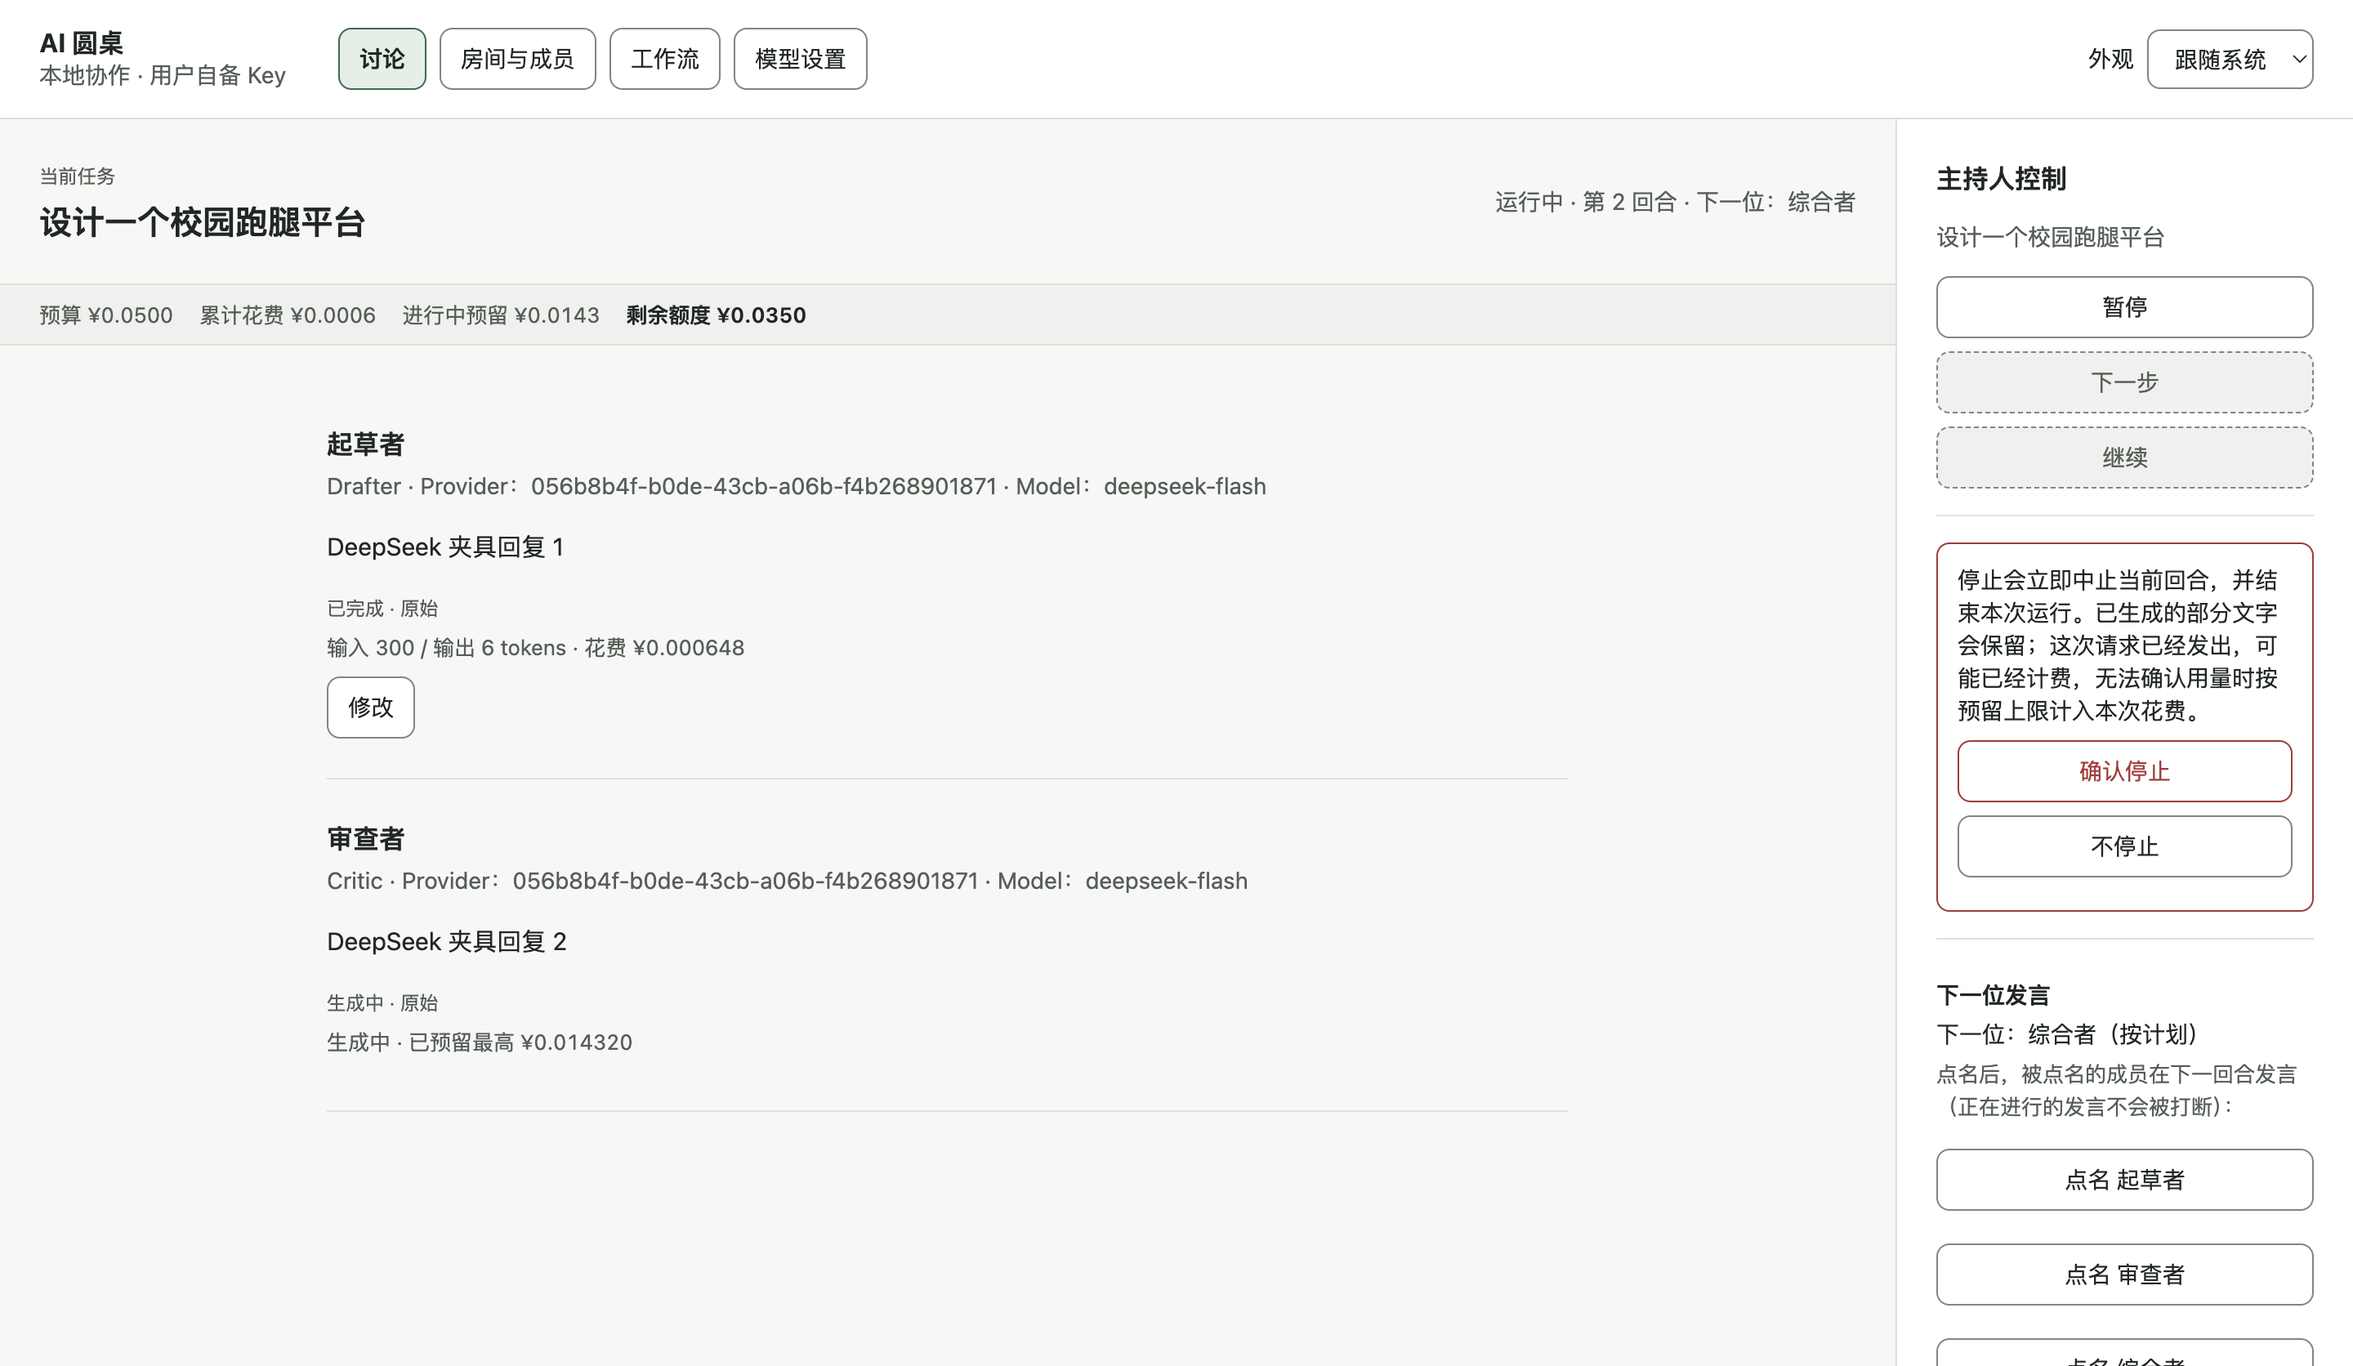
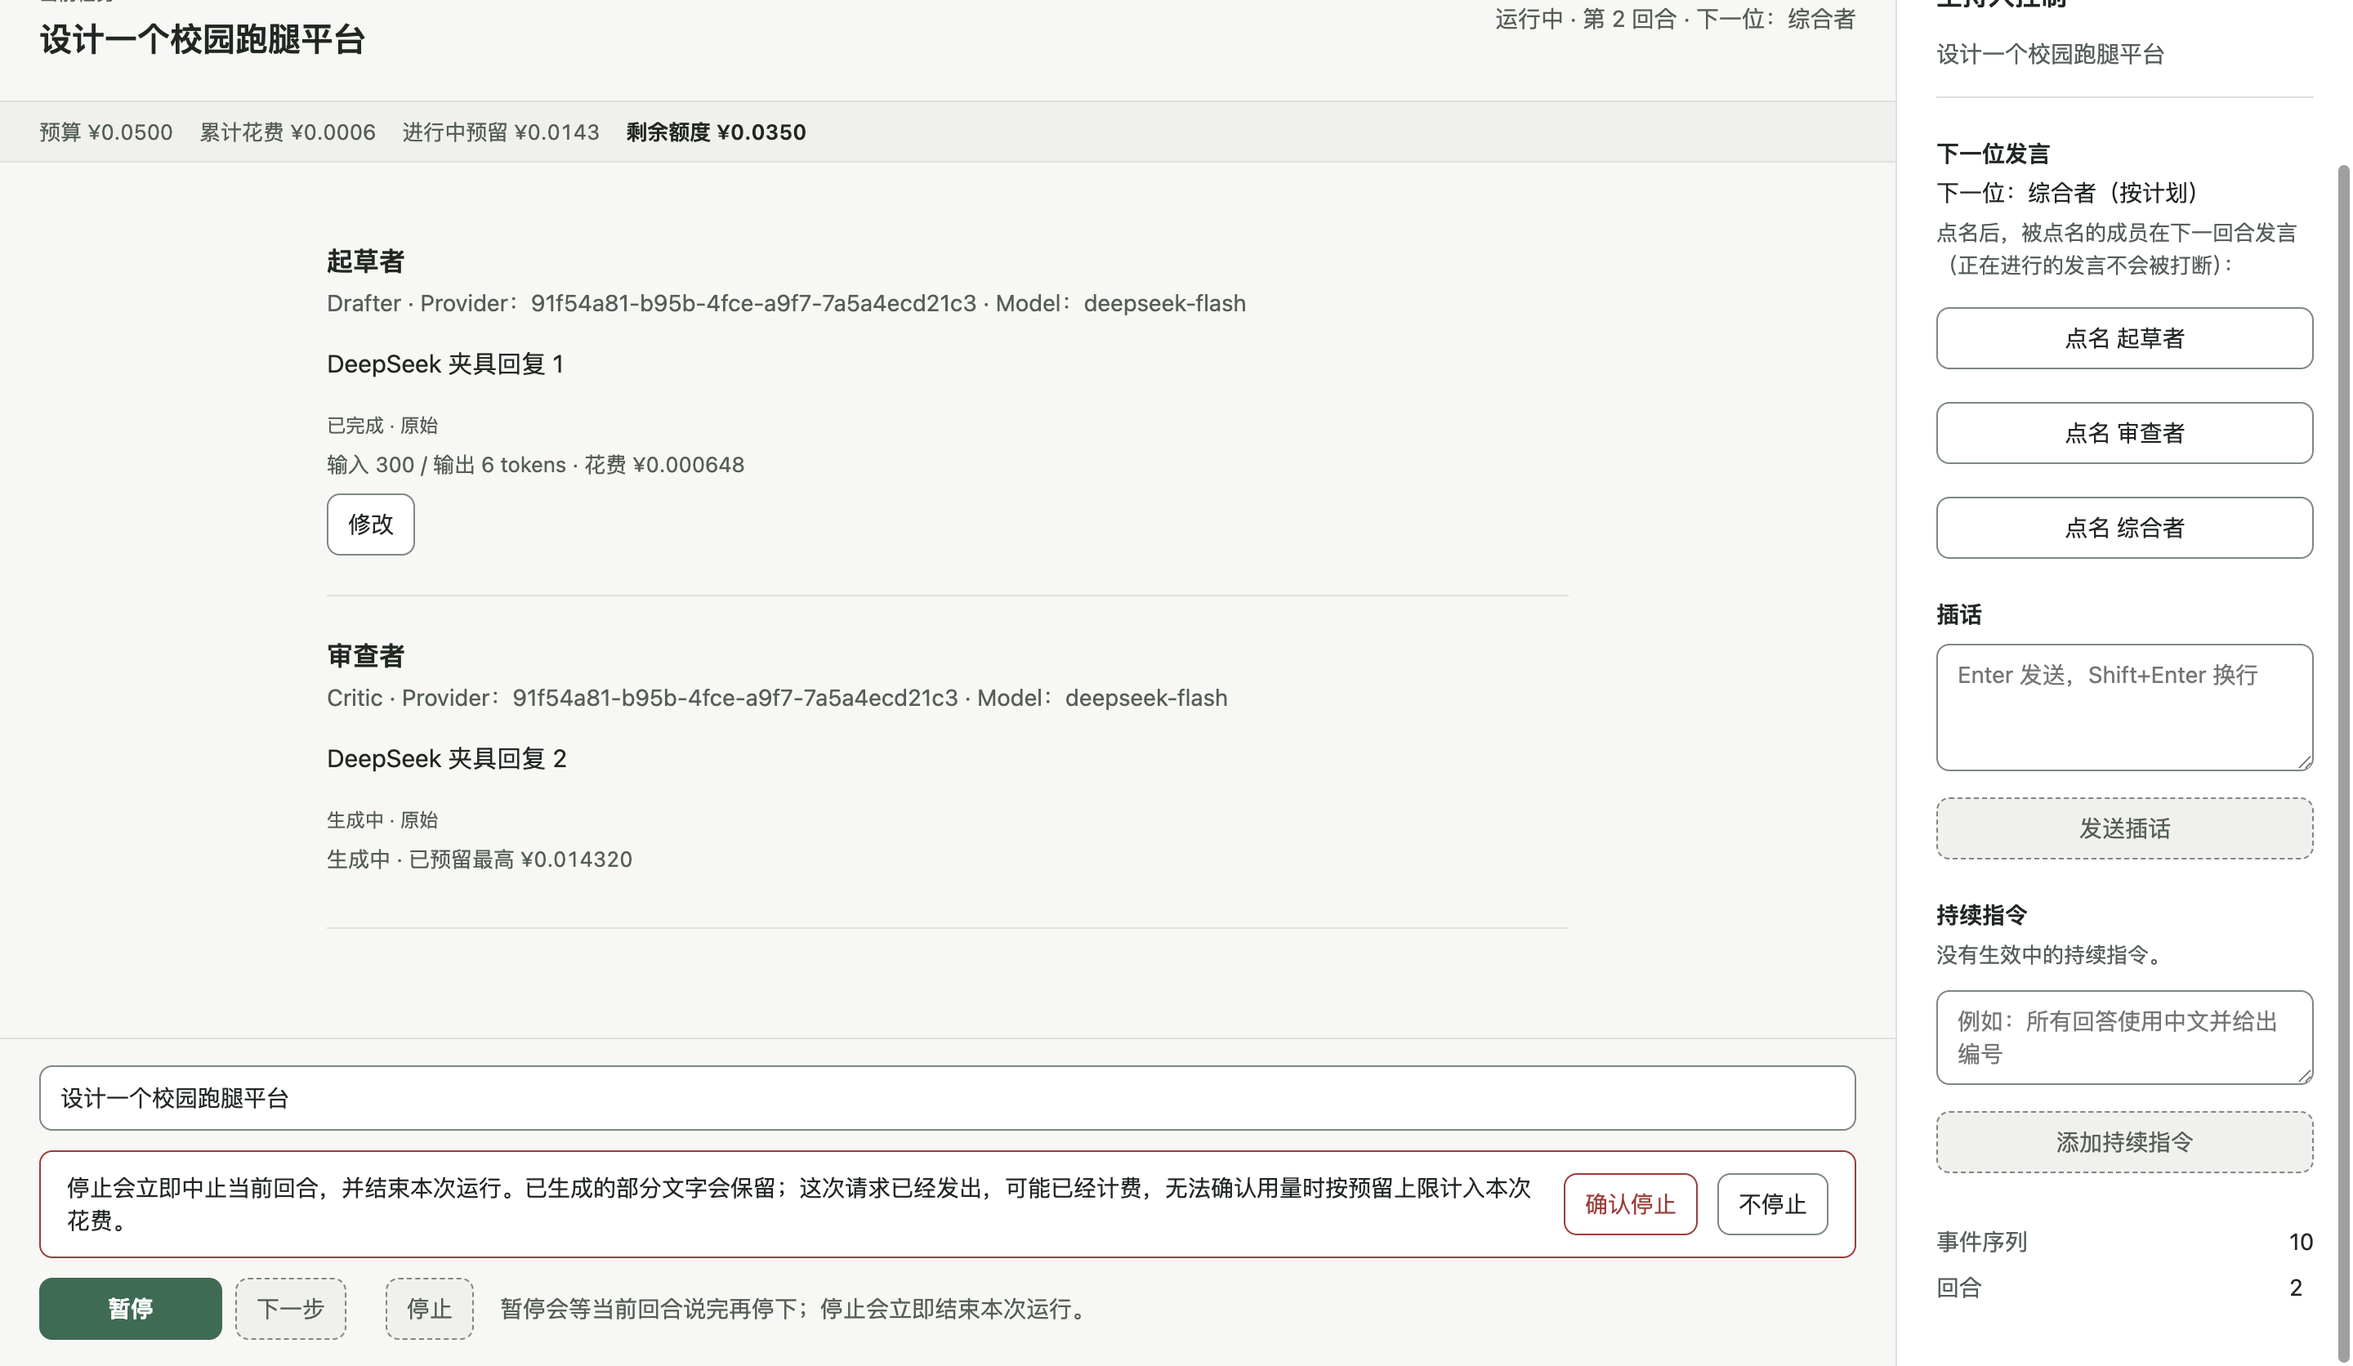
test: hands-on pause in place and step-by-step acceptance; D098 rework and D099
Acceptance now clicks Pause at the unmoved start coordinate and walks
step mode with an interjection (44 checks, 11 screenshots). R09 probe
asserts the D095 format; R07/R08 probe reaches the composer controls.
R01, R07/R08 and R09 probes fail identically on the b3e3324 baseline.

diff --git a/docs/verification/2026-10-23-premerge-quality.md b/docs/verification/2026-10-23-premerge-quality.md
@@ -1,15 +1,16 @@
 # 合并前质量修复：验收记录（2026-10-23）
 
-分支 `codex/r13a-premerge-quality`，基线 `codex/r13a-real-model-enable`（`b3e3324`，含 R10–R12 与 R13A）。所有检查都在本机执行，**没有发出任何真实 DeepSeek 请求**，也没有读取真实用户目录 `~/Library/Application Support/ai-roundtable`、`…/ai-roundtable-trial` 或真实 Key：测试用假 Key，探针把 `https://api.deepseek.com` 的传输重定向到本机回环夹具，其他出站全部拦截并断言为零。决策见 [DECISIONS](../DECISIONS.md) D095–D098，契约见 [CONTRACTS](../CONTRACTS.md) 同名一节，发给模型的消息对比见 [premerge-quality-context-comparison.md](premerge-quality-context-comparison.md)。
+分支 `codex/r13a-premerge-quality`，基线 `codex/r13a-real-model-enable`（`b3e3324`，含 R10–R12 与 R13A）。所有检查都在本机执行，**没有发出任何真实 DeepSeek 请求**，也没有读取真实用户目录 `~/Library/Application Support/ai-roundtable`、`…/ai-roundtable-trial` 或真实 Key：测试用假 Key，探针把 `https://api.deepseek.com` 的传输重定向到本机回环夹具，其他出站全部拦截并断言为零。决策见 [DECISIONS](../DECISIONS.md) D095–D099，契约见 [CONTRACTS](../CONTRACTS.md) 同名一节，发给模型的消息对比见 [premerge-quality-context-comparison.md](premerge-quality-context-comparison.md)。
 
 ## 三层验收
 
 | 层 | 内容 | 结果 |
 | --- | --- | --- |
-| 自动化测试 | `pnpm run typecheck`；`pnpm test`（Electron 38.8.6 自带 Node，ABI 139）；`pnpm run build` | 通过：typecheck exit 0；126 个文件 / 1883 个测试全部通过（基线 120 / 1820）；build exit 0 |
+| 自动化测试 | `pnpm run typecheck`；`pnpm test`（Electron 38.8.6 自带 Node，ABI 139）；`pnpm run build` | 通过：typecheck exit 0；126 个文件 / 1885 个测试全部通过（基线 120 / 1820）；build exit 0 |
 | 隔离生产探针 | `r10-r11-electron.cjs`；`r12-electron.cjs` 首次 + `--restart`；`r13a-electron.cjs` 首次 + `--restart` | 通过：R10/R11 53 项断言、26 次夹具请求（该探针没有重启模式）；R12 首次 22 项 / 4 次请求，重启 14 项 / **0 次请求**；R13A 首次 13 项 / 4 次请求，重启 12 项 / **0 次请求** |
-| 真实界面实操 | `premerge-quality-acceptance.cjs`：真实鼠标/键盘事件（DevTools Input 域），中文经输入法组合输入，8 张截图 | 通过：35 项检查、2 次夹具请求，无控制台错误、无网络外联 |
-| 回归实操探针 | `r13a-acceptance.cjs`；`r12-acceptance.cjs`（已改为"停止 → 确认停止"） | R13A 通过（21 项）。R12：本分支共运行 4 次，3 次通过（22 项）、1 次在输入法组合步骤失败（拼音未被替换为汉字；该步骤固定等待 120ms，插话输入框代码本分支未改），判定为探针时序不稳定，列为遗留问题。两者重新生成的截图已还原，不覆盖原有证据 |
+| 真实界面实操 | `premerge-quality-acceptance.cjs`：真实鼠标/键盘事件（DevTools Input 域），中文经输入法组合输入，11 张截图 | 通过：44 项检查、4 次夹具请求，无控制台错误、无网络外联 |
+| 回归实操探针 | `r13a-acceptance.cjs`；`r12-acceptance.cjs`（已改为"停止 → 确认停止"）；`r10-r11-electron.cjs` 内含的 R10/R11 UI 流程 | 最终一轮全部通过（R13A 21 项、R12 22 项）。R12 在本分支共运行 5 次，1 次在输入法组合步骤失败（拼音未被替换为汉字；该步骤固定等待 120ms，插话代码本分支未改），判定为探针时序不稳定，列为遗留问题。重新生成的 R12/R13A 截图已还原，不覆盖原有证据 |
+| 旧探针（既有失败） | `r01-electron.cjs`、`r07r08-electron.cjs`、`r09-electron.cjs` | **未通过，且与本分支无关**：把基线 `b3e3324` 导出到临时目录单独构建后运行，三者以相同原因失败——R01、R07/R08 断言 Bridge 只有 room/rooms/run/settings 四组（R12 新增了 host），R09 在停止阶段比对"页面文字 = 快照全部消息"（R12 起页面每个槽只显示有效版本）。本分支只同步了 R09 中发给模型的消息断言（D095）和 R07/R08 中控制按钮的位置（D098） |
 | 真实模型实测 | 用户自己的 DeepSeek Key 复测讨论质量与账单 | **未验证，待总控和用户一起做** |
 
 ## 实操截图（`premerge-quality-screens/`）
@@ -21,9 +22,12 @@
 | [03-key-saved-last-step.png](premerge-quality-screens/03-key-saved-last-step.png) | 一键后输入框可用并获得焦点（"我已核对请求目标"同时勾选）；键入假 Key 按 Enter 保存，显示"已配置；系统安全存储。"，Key 不回显。Key 下方只有一个下一步："最后一步：确认本次会话的请求目标 …"与"目标无误，确认本次会话"。 |
 | [04-session-confirmed.png](premerge-quality-screens/04-session-confirmed.png) | 确认后，编辑页顶部"接入进度"三项完成，写明"已就绪：房间成员可以向此 Provider 发送真实请求（仍受模型审核和运行预算限制）"。 |
 | [05-members.png](premerge-quality-screens/05-members.png) | 新建房间"校园跑腿讨论"，添加起草者（Drafter）、审查者（Critic）、综合者（Synthesizer），Provider 均为"DeepSeek 直连"，Model 自动带出 deepseek-flash。 |
-| [06-pause-pressed.png](premerge-quality-screens/06-pause-pressed.png) | 第一位成员还在输出时点"暂停"：页头"正在暂停"。暂停 / 下一步 / 继续为一组；"停止"在分隔线下单独一行、红色描边，下附"暂停：等当前回合说完再停下，可以继续。停止：立即结束本次运行。" |
-| [07-stop-confirm.png](premerge-quality-screens/07-stop-confirm.png) | 继续后审查者输出中点"停止"：就地出现确认，说明部分文字会保留、请求已发出可能已计费、无法确认用量时按预留上限计入；运行仍是"运行中"。 |
-| [08-stopped.png](premerge-quality-screens/08-stopped.png) | 先点"不停止"运行继续；再"停止 → 确认停止"：页头"已停止"，审查者的部分文字保留并标"已中止"，费用按未知（预留上限）计入、不记 0；"重试当前回合""续写部分回复"下方提示"重试和续写会重新发送请求，可能再次计费。" |
+| [06-pause-in-place.png](premerge-quality-screens/06-pause-in-place.png) | 点"开始协作"后鼠标不动，第一位成员输出时在同一坐标再点一下：那里已原地变成"暂停"，页头"正在暂停"，当前回合继续说完。控制条依次是 暂停、下一步、停止，停止在末尾、隔开、红色描边；右侧主持人面板不再有第二套运行按钮。输入区固定在窗口底部，输出变长也不会把按钮推走。 |
+| [07-stop-confirm.png](premerge-quality-screens/07-stop-confirm.png) | "继续"同样在原位置；审查者输出中点"停止"：控制条上方出现轻量确认（部分文字保留、请求已发出可能已计费、无法确认用量时按预留上限计入），焦点在"不停止"；"暂停"仍在原处可用，运行仍是"运行中"。 |
+| [08-stopped.png](premerge-quality-screens/08-stopped.png) | 先"不停止"，再"停止 → 确认停止"：页头"已停止"，审查者的部分文字保留并标"已中止"，费用按未知（预留上限）计入、不记 0；输入区原位置变回"开始协作"；右侧重试/续写下方提示"会重新发送请求，可能再次计费"。 |
+| [09-step-option.png](premerge-quality-screens/09-step-option.png) | 开始前在输入区勾选"每个回合结束后暂停，方便插话或点名"（默认不勾选，勾选后记住），任务用输入法改为"讨论跑腿平台的定价"。 |
+| [10-step-paused-interject.png](premerge-quality-screens/10-step-paused-interject.png) | 开始后起草者说完即自动暂停（页头"已暂停"），没有和模型抢时间；在右侧"插话"用输入法输入"请重点比较按距离计价和固定价"并发送，插话出现在时间线上；输入区提示下一步可以做什么。 |
+| [11-step-next.png](premerge-quality-screens/11-step-next.png) | 点"下一步"：只让审查者发言一次，说完再次自动暂停；脚本核对了它收到的请求体中包含刚才的主持人插话（`【主持人插话】` + 引用）。 |
 
 探针另外核对了真实生产构建发给夹具的请求体：审查者那次请求只有一条 user 消息（没有 assistant），其中包含 `【成员「起草者」· Drafter】\n> DeepSeek 夹具回复 1` 和"现在由你（成员「审查者」· Critic）发言"。下拉框（Provider 类型、成员 Provider）是系统原生菜单，脚本以"聚焦 + change 事件"选择，其余均为真实输入事件。
 
@@ -31,7 +35,8 @@
 
 1. Key 保存后同时出现"输入框暂不可用"和"最后一步"两个提示，不知道先做哪个 → 只保留"最后一步"；会话已确认后再要替换 Key，提示改为"已保存的 Key 正在使用。要替换它，请先核对…"。
 2. "新增模型 ID"下的示例与占位符重复 → 去掉重复的一行。
-3. 停止后"暂停/停止"说明仍挂在不可用的按钮下；紧随其后的"重试当前回合"没有计费提醒（实测中的未知费用正是停止后重试产生的）→ 说明只在停止可用时显示；重试/续写下方提示可能再次计费。
+3. 停止后紧随其后的"重试当前回合"没有计费提醒（实测中的未知费用正是停止后重试产生的）→ 重试/续写下方提示可能再次计费。
+4. （总控更正问题 4 的根因后重做）输入区原本不固定在窗口底部，流式输出变长会把输入区和其中的按钮往下推——即使按钮原地变成"暂停"，鼠标不动也会落空 → 输入区固定在窗口底部，控制条是最后一行，确认和提示都出现在它上方。
 
 ## 执行的命令
 
@@ -40,7 +45,7 @@ git branch -m codex/r13a-premerge-quality
 pnpm install --frozen-lockfile --prefer-offline
 pnpm test --reporter=dot            # 基线：120 文件 / 1820 测试
 pnpm run typecheck
-pnpm test --reporter=dot            # 126 文件 / 1883 测试
+pnpm test --reporter=dot            # 126 文件 / 1885 测试
 pnpm run build
 ./node_modules/.bin/electron tests/probes/r10-r11-electron.cjs
 ./node_modules/.bin/electron tests/probes/r12-electron.cjs
@@ -50,10 +55,13 @@ pnpm run build
 ./node_modules/.bin/electron tests/probes/premerge-quality-acceptance.cjs
 ./node_modules/.bin/electron tests/probes/r13a-acceptance.cjs
 ./node_modules/.bin/electron tests/probes/r12-acceptance.cjs
+./node_modules/.bin/electron tests/probes/r01-electron.cjs     # 本分支与基线均失败（既有）
+./node_modules/.bin/electron tests/probes/r07r08-electron.cjs  # 同上
+./node_modules/.bin/electron tests/probes/r09-electron.cjs     # 同上
 ```
 
 ## 未验证
 
 - 真实 DeepSeek 复测：成员是否不再照抄、重新生成是否采用主持人修改后的内容、实际账单（待总控与用户一起做）。
-- R07/R08、R09、联合 UI 探针（`r07r08-ui.cjs`、`r09-ui.cjs`、`joint-ui.cjs`）只同步改了"停止 → 确认停止"，本轮没有运行。
+- R01、R07/R08、R09 探针自 R12 起即失败（见上表），本分支未修复。
 - 当前没有 lint 和 E2E 命令；跨平台打包未做。

diff --git a/docs/CONTRACTS.md b/docs/CONTRACTS.md
@@ -358,7 +358,7 @@ R13A 子会话（分支 `codex/r13a-real-model-enable`，基线 R12 `15e2e30`）
 
 ## 合并前质量修复（2026-10-23，子会话候选，未合 main）
 
-分支 `codex/r13a-premerge-quality`（基线 `b3e3324`）。总控授权本子会话直接修改共享文件；共享与接线改动以 `contract:` / `wire:` 提交。决策见 [DECISIONS](DECISIONS.md) D095–D098。
+分支 `codex/r13a-premerge-quality`（基线 `b3e3324`）。总控授权本子会话直接修改共享文件；共享与接线改动以 `contract:` / `wire:` 提交。决策见 [DECISIONS](DECISIONS.md) D095–D099。
 
 | 层 | 变化 | 兼容性 |
 | --- | --- | --- |
@@ -369,6 +369,6 @@ R13A 子会话（分支 `codex/r13a-real-model-enable`，基线 R12 `15e2e30`）
 | Shared `schemas/provider.ts` | `streamChatInputSchema.modelId` 改用 `modelIdSchema` | 类密钥模型 ID 在发送前被拒 |
 | Database | 读取 Provider / 成员时隐藏类密钥模型 ID 并打标；`validateModelSelection` 用 `modelIdSchema` | 无 migration，不改存量数据 |
 | ProviderRegistry / ProviderSettingsService | `isTargetConfirmed(id)`；`getProviderKeyState` 在有注册表时附带 `sessionTargetConfirmed` | IPC 通道不变 |
-| Renderer | 设置页接入进度、Key 输入框就近原因与一键操作、模型 ID 示例与类密钥提示；成员编辑器同样提示；App 主持人控制把停止分开并就地确认，重试/续写提示可能再次计费 | — |
+| Renderer | 设置页接入进度、Key 输入框就近原因与一键操作、模型 ID 示例与类密钥提示；成员编辑器同样提示；App 输入区固定在窗口底部，运行时"开始协作"原地变为 暂停/继续 · 下一步 · 停止（停止在末尾并轻量确认），右侧面板去掉重复的运行按钮；开始前可选逐回合推进（`run.start` 已有的 `mode: 'step'`，未新增字段）；`rendererSession.startRun` 的 limits 增加可选 `mode` | — |
 
 安全影响：防注入边界从"JSON 字段 + 角色"变为"应用标签 + 全行引用"，可信指令仍只在 system 段；Key 不再可能以模型 ID 的形式进入请求、Renderer 或日志；会话目标确认机制与失效规则不变。
